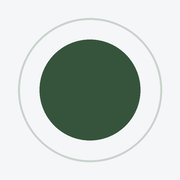
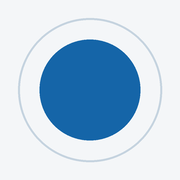
Change the accent colour from green to Mediterranean blue
Use #1565a8 for the circle, Start button and icon, with a lighter
blue for link text in dark mode.

Claude-Session: https://claude.ai/code/session_01M31rPSvDatD5HELfybYiKx

Changed region(s): [[0.1944, 0.1944, 0.8056, 0.8056]]

diff --git a/style.css b/style.css
@@ -3,10 +3,10 @@
   --panel: #ffffff;
   --text: #1d2733;
   --muted: #5f6b78;
-  --accent: #36543b;
-  --accent-text: #36543b;
+  --accent: #1565a8;
+  --accent-text: #1565a8;
   --border: #dde3e8;
-  --circle: #36543b;
+  --circle: #1565a8;
 }
 
 @media (prefers-color-scheme: dark) {
@@ -15,8 +15,8 @@
     --panel: #1a2129;
     --text: #e6edf3;
     --muted: #94a1ae;
-    --accent: #36543b;
-    --accent-text: #8fbf98; /* lighter green so link text stays readable on dark */
+    --accent: #1565a8;
+    --accent-text: #7fb8e6; /* lighter blue so link text stays readable on dark */
     --border: #2a333d;
     color-scheme: dark;
   }
@@ -27,8 +27,8 @@
   --panel: #1a2129;
   --text: #e6edf3;
   --muted: #94a1ae;
-  --accent: #36543b;
-  --accent-text: #8fbf98;
+  --accent: #1565a8;
+  --accent-text: #7fb8e6;
   --border: #2a333d;
   color-scheme: dark;
 }
